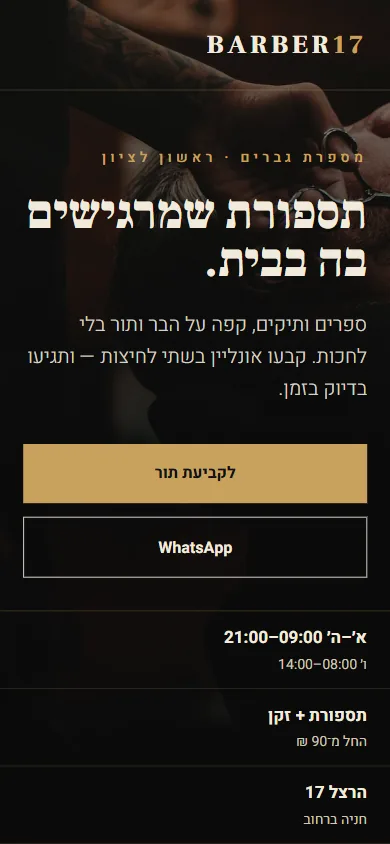
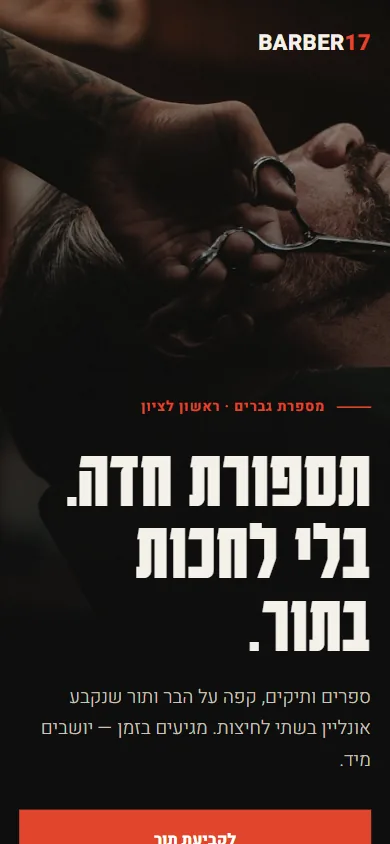
Тест: переделаны концепты барбершопа (Karantina) и кафе

diff --git a/concepts/cafe.html b/concepts/cafe.html
@@ -1,33 +1,46 @@
 <!doctype html>
 <html lang="he" dir="rtl"><head><meta charset="utf-8"><meta name="robots" content="noindex"><meta name="viewport" content="width=device-width, initial-scale=1"><title>קפה לילה — קונספט</title>
-<link rel="stylesheet" href="https://fonts.googleapis.com/css2?family=Suez+One&family=Assistant:wght@300;400;600;700&display=swap">
+<link rel="stylesheet" href="https://fonts.googleapis.com/css2?family=Heebo:wght@300;400;500;700;800&family=Frank+Ruhl+Libre:wght@400;500&display=swap">
 <style>
-*{box-sizing:border-box;margin:0;padding:0}body{background:#F5EEDF;color:#2F3A2A;font-family:Assistant,sans-serif}
-nav{display:flex;justify-content:space-between;align-items:center;padding:26px 6vw}
-.logo{font:400 30px 'Suez One',serif;color:#4E6B3A}.logo small{font:600 12px Assistant;color:#9A8B6E;margin-right:8px}
-.links{display:flex;gap:30px;font-size:16px;font-weight:600}
-.order{background:#4E6B3A;color:#F5EEDF;padding:12px 22px;border-radius:999px;font-weight:700;font-size:15px}
-.hero{display:grid;grid-template-columns:1fr 1.1fr;gap:5vw;align-items:center;padding:3vw 6vw 5vw;min-height:calc(100vh - 92px)}
-.chip{display:inline-block;background:#E5D9BF;color:#6B5B3B;padding:8px 16px;border-radius:999px;font-weight:600;font-size:14px}
-h1{font:400 clamp(46px,6vw,92px)/1.05 'Suez One',serif;margin-top:22px;color:#2F3A2A}h1 span{color:#B4602F}
-p{font-size:20px;line-height:1.65;color:#5A5546;margin-top:22px;max-width:28em}
-.cta{display:flex;gap:14px;margin-top:34px;flex-wrap:wrap}
-.cta a{padding:17px 28px;border-radius:999px;font-weight:700;font-size:16px}
-.a1{background:#B4602F;color:#fff}.a2{border:2px solid #2F3A2A}
-.menu{display:flex;gap:10px;margin-top:34px;flex-wrap:wrap}.menu span{border:1.5px solid #CDBE9C;padding:8px 14px;border-radius:12px;font-size:15px}
-.photo{position:relative;height:min(74vh,640px);border-radius:220px 220px 24px 24px;overflow:hidden;box-shadow:0 30px 60px -30px rgba(47,58,42,.5)}
-.photo img{width:100%;height:100%;object-fit:cover}
-.badge{position:absolute;bottom:26px;right:26px;background:#F5EEDF;padding:14px 18px;border-radius:16px;font-weight:700;font-size:15px}.badge small{display:block;font-weight:400;color:#6B5B3B}
-@media(max-width:800px){.links{display:none}.hero{grid-template-columns:1fr}.photo{height:46vh;order:-1;border-radius:160px 160px 20px 20px}}
+*{box-sizing:border-box;margin:0;padding:0}body{background:#F3EDE2;color:#23301F;font-family:Heebo,sans-serif}
+.hero{display:grid;grid-template-columns:1fr 1fr;min-height:100vh}
+.txt{display:flex;flex-direction:column;padding:28px 5vw 36px}
+nav{display:flex;justify-content:space-between;align-items:center}
+.logo{font:500 26px 'Frank Ruhl Libre',serif;color:#23301F}.logo small{display:block;font:500 11px Heebo;letter-spacing:.18em;color:#8A7F6A;margin-top:2px}
+.links{display:flex;gap:26px;font-size:15px;font-weight:500;color:#4D5847}
+.mid{flex:1;display:flex;flex-direction:column;justify-content:center;padding:4vh 0}
+.k{font-size:13px;font-weight:700;letter-spacing:.14em;color:#A0532A}
+h1{font:800 clamp(46px,5.4vw,84px)/1.02 Heebo;letter-spacing:-.02em;margin-top:16px}
+h1 em{font:400 1em/1 'Frank Ruhl Libre',serif;font-style:normal;color:#A0532A}
+p{font-weight:300;font-size:19px;line-height:1.65;color:#4D5847;margin-top:20px;max-width:27em}
+.cta{display:flex;gap:12px;margin-top:30px}
+.cta a{padding:16px 26px;font-weight:700;font-size:15px}
+.a1{background:#23301F;color:#F3EDE2}.a2{border:1.5px solid #23301F}
+.menu{margin-top:36px;max-width:420px;border-top:1px solid #CFC4AE;padding-top:18px}
+.menu h3{font:500 14px Heebo;letter-spacing:.14em;color:#8A7F6A;margin-bottom:10px}
+.row{display:flex;align-items:baseline;gap:10px;font-size:17px;padding:6px 0}
+.row i{flex:1;border-bottom:1.5px dotted #B9AD94;transform:translateY(-4px)}
+.row b{font-weight:500;direction:ltr}
+.info{display:flex;gap:28px;font-size:14px;color:#6A6452;border-top:1px solid #CFC4AE;padding-top:16px}
+.info b{color:#23301F}
+.photo{background:url(cafe.jpg) center/cover;position:relative}
+.photo span{position:absolute;bottom:24px;right:24px;background:#F3EDE2;padding:10px 14px;font-size:13px;font-weight:700}
+@media(max-width:800px){.links{display:none}.hero{grid-template-columns:1fr}.photo{min-height:42vh;order:-1}.cta{flex-direction:column}.cta a{text-align:center}.info{flex-wrap:wrap;gap:14px}}
 </style></head><body>
-<nav><span class="logo">קפה לילה<small>בית קפה שכונתי</small></span><div class="links"><span>תפריט</span><span>ארוחות בוקר</span><span>אירועים</span><span>הגעה</span></div><span class="order">להזמנת מקום</span></nav>
 <section class="hero">
-<div>
-<span class="chip">☕ פתוח עכשיו · עד 23:00</span>
-<h1>הבוקר הכי טוב <span>בשכונה</span>.</h1>
-<p>קפה קלוי במקום, מאפים מהתנור וארוחות בוקר עד הצהריים. בואו לשבת, לעבוד או סתם להתעכב עוד קצת.</p>
-<div class="cta"><a class="a1">לתפריט המלא</a><a class="a2">משלוח עד הבית</a></div>
-<div class="menu"><span>אספרסו 12 ₪</span><span>שקשוקה 52 ₪</span><span>קרואסון שקדים 18 ₪</span></div>
+<div class="txt">
+<nav><span class="logo">קפה לילה<small>EST. 2019 · ראשון לציון</small></span><div class="links"><span>תפריט</span><span>ארוחות בוקר</span><span>אירועים</span><span>הגעה</span></div></nav>
+<div class="mid">
+<p class="k">בית קפה שכונתי</p>
+<h1>הבוקר הכי טוב <em>בשכונה.</em></h1>
+<p>קפה קלוי במקום, מאפים מהתנור וארוחות בוקר עד הצהריים. מקום לשבת, לעבוד, או סתם להתעכב עוד קצת.</p>
+<div class="cta"><a class="a1">להזמנת שולחן</a><a class="a2">לתפריט המלא</a></div>
+<div class="menu"><h3>מהתפריט</h3>
+<div class="row">אספרסו כפול<i></i><b>12 ₪</b></div>
+<div class="row">שקשוקה עם לחם מחמצת<i></i><b>52 ₪</b></div>
+<div class="row">קרואסון שקדים<i></i><b>18 ₪</b></div></div>
 </div>
-<div class="photo"><img src="cafe.jpg" alt=""><div class="badge">7 ימים בשבוע<small>מ־07:00 בבוקר</small></div></div>
+<div class="info"><span><b>א׳–ש׳</b> 07:00–23:00</span><span><b>רוטשילד 12</b> · ראשון לציון</span></div>
+</div>
+<div class="photo"><span>פתוח עכשיו</span></div>
 </section><a href="../" style="position:fixed;bottom:16px;left:16px;z-index:9;background:#121212;color:#F4F1EA;font:500 13px/1 Heebo,sans-serif;padding:11px 14px;border-radius:4px;text-decoration:none;direction:rtl">קונספט לדוגמה · עיצוב: altshuler.</a></body></html>

diff --git a/_source/concepts/cafe.html b/_source/concepts/cafe.html
@@ -1,33 +1,46 @@
 <!doctype html>
 <html lang="he" dir="rtl"><head><meta charset="utf-8"><meta name="viewport" content="width=device-width, initial-scale=1"><title>קפה לילה — קונספט</title>
-<link rel="stylesheet" href="https://fonts.googleapis.com/css2?family=Suez+One&family=Assistant:wght@300;400;600;700&display=swap">
+<link rel="stylesheet" href="https://fonts.googleapis.com/css2?family=Heebo:wght@300;400;500;700;800&family=Frank+Ruhl+Libre:wght@400;500&display=swap">
 <style>
-*{box-sizing:border-box;margin:0;padding:0}body{background:#F5EEDF;color:#2F3A2A;font-family:Assistant,sans-serif}
-nav{display:flex;justify-content:space-between;align-items:center;padding:26px 6vw}
-.logo{font:400 30px 'Suez One',serif;color:#4E6B3A}.logo small{font:600 12px Assistant;color:#9A8B6E;margin-right:8px}
-.links{display:flex;gap:30px;font-size:16px;font-weight:600}
-.order{background:#4E6B3A;color:#F5EEDF;padding:12px 22px;border-radius:999px;font-weight:700;font-size:15px}
-.hero{display:grid;grid-template-columns:1fr 1.1fr;gap:5vw;align-items:center;padding:3vw 6vw 5vw;min-height:calc(100vh - 92px)}
-.chip{display:inline-block;background:#E5D9BF;color:#6B5B3B;padding:8px 16px;border-radius:999px;font-weight:600;font-size:14px}
-h1{font:400 clamp(46px,6vw,92px)/1.05 'Suez One',serif;margin-top:22px;color:#2F3A2A}h1 span{color:#B4602F}
-p{font-size:20px;line-height:1.65;color:#5A5546;margin-top:22px;max-width:28em}
-.cta{display:flex;gap:14px;margin-top:34px;flex-wrap:wrap}
-.cta a{padding:17px 28px;border-radius:999px;font-weight:700;font-size:16px}
-.a1{background:#B4602F;color:#fff}.a2{border:2px solid #2F3A2A}
-.menu{display:flex;gap:10px;margin-top:34px;flex-wrap:wrap}.menu span{border:1.5px solid #CDBE9C;padding:8px 14px;border-radius:12px;font-size:15px}
-.photo{position:relative;height:min(74vh,640px);border-radius:220px 220px 24px 24px;overflow:hidden;box-shadow:0 30px 60px -30px rgba(47,58,42,.5)}
-.photo img{width:100%;height:100%;object-fit:cover}
-.badge{position:absolute;bottom:26px;right:26px;background:#F5EEDF;padding:14px 18px;border-radius:16px;font-weight:700;font-size:15px}.badge small{display:block;font-weight:400;color:#6B5B3B}
-@media(max-width:800px){.links{display:none}.hero{grid-template-columns:1fr}.photo{height:46vh;order:-1;border-radius:160px 160px 20px 20px}}
+*{box-sizing:border-box;margin:0;padding:0}body{background:#F3EDE2;color:#23301F;font-family:Heebo,sans-serif}
+.hero{display:grid;grid-template-columns:1fr 1fr;min-height:100vh}
+.txt{display:flex;flex-direction:column;padding:28px 5vw 36px}
+nav{display:flex;justify-content:space-between;align-items:center}
+.logo{font:500 26px 'Frank Ruhl Libre',serif;color:#23301F}.logo small{display:block;font:500 11px Heebo;letter-spacing:.18em;color:#8A7F6A;margin-top:2px}
+.links{display:flex;gap:26px;font-size:15px;font-weight:500;color:#4D5847}
+.mid{flex:1;display:flex;flex-direction:column;justify-content:center;padding:4vh 0}
+.k{font-size:13px;font-weight:700;letter-spacing:.14em;color:#A0532A}
+h1{font:800 clamp(46px,5.4vw,84px)/1.02 Heebo;letter-spacing:-.02em;margin-top:16px}
+h1 em{font:400 1em/1 'Frank Ruhl Libre',serif;font-style:normal;color:#A0532A}
+p{font-weight:300;font-size:19px;line-height:1.65;color:#4D5847;margin-top:20px;max-width:27em}
+.cta{display:flex;gap:12px;margin-top:30px}
+.cta a{padding:16px 26px;font-weight:700;font-size:15px}
+.a1{background:#23301F;color:#F3EDE2}.a2{border:1.5px solid #23301F}
+.menu{margin-top:36px;max-width:420px;border-top:1px solid #CFC4AE;padding-top:18px}
+.menu h3{font:500 14px Heebo;letter-spacing:.14em;color:#8A7F6A;margin-bottom:10px}
+.row{display:flex;align-items:baseline;gap:10px;font-size:17px;padding:6px 0}
+.row i{flex:1;border-bottom:1.5px dotted #B9AD94;transform:translateY(-4px)}
+.row b{font-weight:500;direction:ltr}
+.info{display:flex;gap:28px;font-size:14px;color:#6A6452;border-top:1px solid #CFC4AE;padding-top:16px}
+.info b{color:#23301F}
+.photo{background:url(cafe.jpg) center/cover;position:relative}
+.photo span{position:absolute;bottom:24px;right:24px;background:#F3EDE2;padding:10px 14px;font-size:13px;font-weight:700}
+@media(max-width:800px){.links{display:none}.hero{grid-template-columns:1fr}.photo{min-height:42vh;order:-1}.cta{flex-direction:column}.cta a{text-align:center}.info{flex-wrap:wrap;gap:14px}}
 </style></head><body>
-<nav><span class="logo">קפה לילה<small>בית קפה שכונתי</small></span><div class="links"><span>תפריט</span><span>ארוחות בוקר</span><span>אירועים</span><span>הגעה</span></div><span class="order">להזמנת מקום</span></nav>
 <section class="hero">
-<div>
-<span class="chip">☕ פתוח עכשיו · עד 23:00</span>
-<h1>הבוקר הכי טוב <span>בשכונה</span>.</h1>
-<p>קפה קלוי במקום, מאפים מהתנור וארוחות בוקר עד הצהריים. בואו לשבת, לעבוד או סתם להתעכב עוד קצת.</p>
-<div class="cta"><a class="a1">לתפריט המלא</a><a class="a2">משלוח עד הבית</a></div>
-<div class="menu"><span>אספרסו 12 ₪</span><span>שקשוקה 52 ₪</span><span>קרואסון שקדים 18 ₪</span></div>
+<div class="txt">
+<nav><span class="logo">קפה לילה<small>EST. 2019 · ראשון לציון</small></span><div class="links"><span>תפריט</span><span>ארוחות בוקר</span><span>אירועים</span><span>הגעה</span></div></nav>
+<div class="mid">
+<p class="k">בית קפה שכונתי</p>
+<h1>הבוקר הכי טוב <em>בשכונה.</em></h1>
+<p>קפה קלוי במקום, מאפים מהתנור וארוחות בוקר עד הצהריים. מקום לשבת, לעבוד, או סתם להתעכב עוד קצת.</p>
+<div class="cta"><a class="a1">להזמנת שולחן</a><a class="a2">לתפריט המלא</a></div>
+<div class="menu"><h3>מהתפריט</h3>
+<div class="row">אספרסו כפול<i></i><b>12 ₪</b></div>
+<div class="row">שקשוקה עם לחם מחמצת<i></i><b>52 ₪</b></div>
+<div class="row">קרואסון שקדים<i></i><b>18 ₪</b></div></div>
 </div>
-<div class="photo"><img src="cafe.jpg" alt=""><div class="badge">7 ימים בשבוע<small>מ־07:00 בבוקר</small></div></div>
+<div class="info"><span><b>א׳–ש׳</b> 07:00–23:00</span><span><b>רוטשילד 12</b> · ראשון לציון</span></div>
+</div>
+<div class="photo"><span>פתוח עכשיו</span></div>
 </section></body></html>

diff --git a/concepts/barber.html b/concepts/barber.html
@@ -1,32 +1,36 @@
 <!doctype html>
 <html lang="he" dir="rtl"><head><meta charset="utf-8"><meta name="robots" content="noindex"><meta name="viewport" content="width=device-width, initial-scale=1"><title>BARBER 17 — קונספט</title>
-<link rel="stylesheet" href="https://fonts.googleapis.com/css2?family=Frank+Ruhl+Libre:wght@500;900&family=Heebo:wght@300;400;600;700&display=swap">
+<link rel="stylesheet" href="https://fonts.googleapis.com/css2?family=Karantina:wght@400;700&family=Heebo:wght@300;400;500;700;800&display=swap">
 <style>
-*{box-sizing:border-box;margin:0;padding:0}body{background:#111;color:#F2EBDD;font-family:Heebo,sans-serif}
-.hero{position:relative;min-height:100vh;display:flex;flex-direction:column;background:linear-gradient(90deg,rgba(10,10,10,0),rgba(10,10,10,.92) 60%),url(barber.jpg) center/cover}
-nav{display:flex;justify-content:space-between;align-items:center;padding:28px 6vw;border-bottom:1px solid rgba(201,162,93,.3)}
-.logo{font:900 26px 'Frank Ruhl Libre',serif;letter-spacing:.14em;direction:ltr}.logo b{color:#C9A25D}
-.links{display:flex;gap:34px;font-size:15px;color:#CFC6B4}
-.book{border:1px solid #C9A25D;color:#C9A25D;padding:12px 22px;font-weight:600;font-size:14px}
-.body{flex:1;display:flex;align-items:center;padding:0 6vw}
-.txt{max-width:640px}
-.kick{color:#C9A25D;font-size:14px;letter-spacing:.3em;font-weight:600}
-h1{font:900 clamp(48px,7vw,104px)/1 'Frank Ruhl Libre',serif;margin-top:20px}
-p{font-weight:300;font-size:20px;line-height:1.6;color:#D9D1C1;margin-top:24px;max-width:30em}
-.cta{display:flex;gap:14px;margin-top:38px}
-.cta a{padding:18px 30px;font-weight:700;font-size:16px}
-.p1{background:#C9A25D;color:#111}.p2{border:1px solid #F2EBDD;color:#F2EBDD}
-.bar{display:grid;grid-template-columns:repeat(3,1fr);border-top:1px solid rgba(201,162,93,.3)}
-.bar div{padding:22px 6vw;font-size:14px;color:#CFC6B4;border-left:1px solid rgba(201,162,93,.3)}.bar b{display:block;color:#F2EBDD;font-size:17px;margin-bottom:4px}
-@media(max-width:700px){.links,.book{display:none}.bar{grid-template-columns:1fr}.bar div{padding:14px 6vw;border:0;border-bottom:1px solid rgba(201,162,93,.2)}.hero{background:linear-gradient(180deg,rgba(10,10,10,.35),rgba(10,10,10,.9) 55%),url(barber.jpg) 30% center/cover}.cta{flex-direction:column}.cta a{text-align:center}}
+*{box-sizing:border-box;margin:0;padding:0}body{background:#0E0E0E;color:#F4F1EA;font-family:Heebo,sans-serif}
+.hero{position:relative;min-height:100vh;display:grid;grid-template-rows:auto 1fr auto;background:#0E0E0E}
+.hero::before{content:'';position:absolute;inset:0 auto 0 0;width:56%;background:url(barber.jpg) 40% center/cover;filter:grayscale(.15) contrast(1.05)}
+.hero::after{content:'';position:absolute;inset:0 auto 0 0;width:56%;background:linear-gradient(90deg,rgba(14,14,14,0) 55%,#0E0E0E)}
+nav,.body,.bar{position:relative;z-index:1}
+nav{display:flex;justify-content:space-between;align-items:center;padding:26px 5vw}
+.logo{font:800 22px Heebo;letter-spacing:.02em;direction:ltr}.logo span{color:#E0452C}
+.links{display:flex;gap:32px;font-size:15px;font-weight:500;color:#BDB8AE}
+.book{background:#F4F1EA;color:#0E0E0E;padding:12px 20px;font-weight:800;font-size:14px}
+.body{display:flex;align-items:center;padding:0 5vw}
+.txt{width:44%;margin-right:0}
+.kick{display:flex;align-items:center;gap:12px;font-size:14px;font-weight:700;color:#E0452C;letter-spacing:.06em}
+.kick::before{content:'';width:34px;height:2px;background:#E0452C}
+h1{font:700 clamp(84px,10.5vw,170px)/.86 Karantina,sans-serif;margin-top:22px;letter-spacing:.005em}
+p{font-weight:300;font-size:19px;line-height:1.65;color:#C9C4BA;margin-top:24px;max-width:26em}
+.cta{display:flex;gap:12px;margin-top:34px}
+.cta a{padding:18px 28px;font-weight:800;font-size:16px}
+.p1{background:#E0452C;color:#fff}.p2{border:1.5px solid #F4F1EA;color:#F4F1EA}
+.bar{display:grid;grid-template-columns:repeat(3,1fr);margin-right:5vw;width:44%;margin-left:auto;border-top:1px solid #2A2A2A}
+.bar div{padding:20px 0;font-size:14px;color:#9E998F}.bar b{display:block;color:#F4F1EA;font:800 21px/1.2 Heebo;margin-bottom:4px}
+@media(max-width:800px){.links,.book{display:none}.hero::before,.hero::after{width:100%}.hero::after{background:linear-gradient(180deg,rgba(14,14,14,.2),#0E0E0E 62%)}.txt,.bar{width:auto}.body{align-items:flex-end;padding-top:34vh}.bar{margin:0 5vw}.cta{flex-direction:column}.cta a{text-align:center}}
 </style></head><body>
 <section class="hero">
-<nav><span class="logo">BARBER<b>17</b></span><div class="links"><span>תספורות</span><span>זקן</span><span>מחירון</span><span>צוות</span></div><span class="book">לקביעת תור</span></nav>
+<nav><span class="logo">BARBER<span>17</span></span><div class="links"><span>תספורות</span><span>זקן</span><span>מחירון</span><span>הצוות</span></div><span class="book">לקביעת תור</span></nav>
 <div class="body"><div class="txt">
 <p class="kick">מספרת גברים · ראשון לציון</p>
-<h1>תספורת שמרגישים בה בבית.</h1>
-<p>ספרים ותיקים, קפה על הבר ותור בלי לחכות. קבעו אונליין בשתי לחיצות — ותגיעו בדיוק בזמן.</p>
+<h1>תספורת חדה.<br>בלי לחכות בתור.</h1>
+<p>ספרים ותיקים, קפה על הבר ותור שנקבע אונליין בשתי לחיצות. מגיעים בזמן — יושבים מיד.</p>
 <div class="cta"><a class="p1">לקביעת תור</a><a class="p2">WhatsApp</a></div>
 </div></div>
-<div class="bar"><div><b>א׳–ה׳ 09:00–21:00</b>ו׳ 08:00–14:00</div><div><b>תספורת + זקן</b>החל מ־90 ₪</div><div><b>הרצל 17</b>חניה ברחוב</div></div>
+<div class="bar"><div><b>09–21</b>א׳–ה׳</div><div><b>90 ₪</b>תספורת + זקן</div><div><b>הרצל 17</b>חניה ברחוב</div></div>
 </section><a href="../" style="position:fixed;bottom:16px;left:16px;z-index:9;background:#121212;color:#F4F1EA;font:500 13px/1 Heebo,sans-serif;padding:11px 14px;border-radius:4px;text-decoration:none;direction:rtl">קונספט לדוגמה · עיצוב: altshuler.</a></body></html>

diff --git a/_source/concepts/barber.html b/_source/concepts/barber.html
@@ -1,32 +1,36 @@
 <!doctype html>
 <html lang="he" dir="rtl"><head><meta charset="utf-8"><meta name="viewport" content="width=device-width, initial-scale=1"><title>BARBER 17 — קונספט</title>
-<link rel="stylesheet" href="https://fonts.googleapis.com/css2?family=Frank+Ruhl+Libre:wght@500;900&family=Heebo:wght@300;400;600;700&display=swap">
+<link rel="stylesheet" href="https://fonts.googleapis.com/css2?family=Karantina:wght@400;700&family=Heebo:wght@300;400;500;700;800&display=swap">
 <style>
-*{box-sizing:border-box;margin:0;padding:0}body{background:#111;color:#F2EBDD;font-family:Heebo,sans-serif}
-.hero{position:relative;min-height:100vh;display:flex;flex-direction:column;background:linear-gradient(90deg,rgba(10,10,10,0),rgba(10,10,10,.92) 60%),url(barber.jpg) center/cover}
-nav{display:flex;justify-content:space-between;align-items:center;padding:28px 6vw;border-bottom:1px solid rgba(201,162,93,.3)}
-.logo{font:900 26px 'Frank Ruhl Libre',serif;letter-spacing:.14em;direction:ltr}.logo b{color:#C9A25D}
-.links{display:flex;gap:34px;font-size:15px;color:#CFC6B4}
-.book{border:1px solid #C9A25D;color:#C9A25D;padding:12px 22px;font-weight:600;font-size:14px}
-.body{flex:1;display:flex;align-items:center;padding:0 6vw}
-.txt{max-width:640px}
-.kick{color:#C9A25D;font-size:14px;letter-spacing:.3em;font-weight:600}
-h1{font:900 clamp(48px,7vw,104px)/1 'Frank Ruhl Libre',serif;margin-top:20px}
-p{font-weight:300;font-size:20px;line-height:1.6;color:#D9D1C1;margin-top:24px;max-width:30em}
-.cta{display:flex;gap:14px;margin-top:38px}
-.cta a{padding:18px 30px;font-weight:700;font-size:16px}
-.p1{background:#C9A25D;color:#111}.p2{border:1px solid #F2EBDD;color:#F2EBDD}
-.bar{display:grid;grid-template-columns:repeat(3,1fr);border-top:1px solid rgba(201,162,93,.3)}
-.bar div{padding:22px 6vw;font-size:14px;color:#CFC6B4;border-left:1px solid rgba(201,162,93,.3)}.bar b{display:block;color:#F2EBDD;font-size:17px;margin-bottom:4px}
-@media(max-width:700px){.links,.book{display:none}.bar{grid-template-columns:1fr}.bar div{padding:14px 6vw;border:0;border-bottom:1px solid rgba(201,162,93,.2)}.hero{background:linear-gradient(180deg,rgba(10,10,10,.35),rgba(10,10,10,.9) 55%),url(barber.jpg) 30% center/cover}.cta{flex-direction:column}.cta a{text-align:center}}
+*{box-sizing:border-box;margin:0;padding:0}body{background:#0E0E0E;color:#F4F1EA;font-family:Heebo,sans-serif}
+.hero{position:relative;min-height:100vh;display:grid;grid-template-rows:auto 1fr auto;background:#0E0E0E}
+.hero::before{content:'';position:absolute;inset:0 auto 0 0;width:56%;background:url(barber.jpg) 40% center/cover;filter:grayscale(.15) contrast(1.05)}
+.hero::after{content:'';position:absolute;inset:0 auto 0 0;width:56%;background:linear-gradient(90deg,rgba(14,14,14,0) 55%,#0E0E0E)}
+nav,.body,.bar{position:relative;z-index:1}
+nav{display:flex;justify-content:space-between;align-items:center;padding:26px 5vw}
+.logo{font:800 22px Heebo;letter-spacing:.02em;direction:ltr}.logo span{color:#E0452C}
+.links{display:flex;gap:32px;font-size:15px;font-weight:500;color:#BDB8AE}
+.book{background:#F4F1EA;color:#0E0E0E;padding:12px 20px;font-weight:800;font-size:14px}
+.body{display:flex;align-items:center;padding:0 5vw}
+.txt{width:44%;margin-right:0}
+.kick{display:flex;align-items:center;gap:12px;font-size:14px;font-weight:700;color:#E0452C;letter-spacing:.06em}
+.kick::before{content:'';width:34px;height:2px;background:#E0452C}
+h1{font:700 clamp(84px,10.5vw,170px)/.86 Karantina,sans-serif;margin-top:22px;letter-spacing:.005em}
+p{font-weight:300;font-size:19px;line-height:1.65;color:#C9C4BA;margin-top:24px;max-width:26em}
+.cta{display:flex;gap:12px;margin-top:34px}
+.cta a{padding:18px 28px;font-weight:800;font-size:16px}
+.p1{background:#E0452C;color:#fff}.p2{border:1.5px solid #F4F1EA;color:#F4F1EA}
+.bar{display:grid;grid-template-columns:repeat(3,1fr);margin-right:5vw;width:44%;margin-left:auto;border-top:1px solid #2A2A2A}
+.bar div{padding:20px 0;font-size:14px;color:#9E998F}.bar b{display:block;color:#F4F1EA;font:800 21px/1.2 Heebo;margin-bottom:4px}
+@media(max-width:800px){.links,.book{display:none}.hero::before,.hero::after{width:100%}.hero::after{background:linear-gradient(180deg,rgba(14,14,14,.2),#0E0E0E 62%)}.txt,.bar{width:auto}.body{align-items:flex-end;padding-top:34vh}.bar{margin:0 5vw}.cta{flex-direction:column}.cta a{text-align:center}}
 </style></head><body>
 <section class="hero">
-<nav><span class="logo">BARBER<b>17</b></span><div class="links"><span>תספורות</span><span>זקן</span><span>מחירון</span><span>צוות</span></div><span class="book">לקביעת תור</span></nav>
+<nav><span class="logo">BARBER<span>17</span></span><div class="links"><span>תספורות</span><span>זקן</span><span>מחירון</span><span>הצוות</span></div><span class="book">לקביעת תור</span></nav>
 <div class="body"><div class="txt">
 <p class="kick">מספרת גברים · ראשון לציון</p>
-<h1>תספורת שמרגישים בה בבית.</h1>
-<p>ספרים ותיקים, קפה על הבר ותור בלי לחכות. קבעו אונליין בשתי לחיצות — ותגיעו בדיוק בזמן.</p>
+<h1>תספורת חדה.<br>בלי לחכות בתור.</h1>
+<p>ספרים ותיקים, קפה על הבר ותור שנקבע אונליין בשתי לחיצות. מגיעים בזמן — יושבים מיד.</p>
 <div class="cta"><a class="p1">לקביעת תור</a><a class="p2">WhatsApp</a></div>
 </div></div>
-<div class="bar"><div><b>א׳–ה׳ 09:00–21:00</b>ו׳ 08:00–14:00</div><div><b>תספורת + זקן</b>החל מ־90 ₪</div><div><b>הרצל 17</b>חניה ברחוב</div></div>
+<div class="bar"><div><b>09–21</b>א׳–ה׳</div><div><b>90 ₪</b>תספורת + זקן</div><div><b>הרצל 17</b>חניה ברחוב</div></div>
 </section></body></html>
